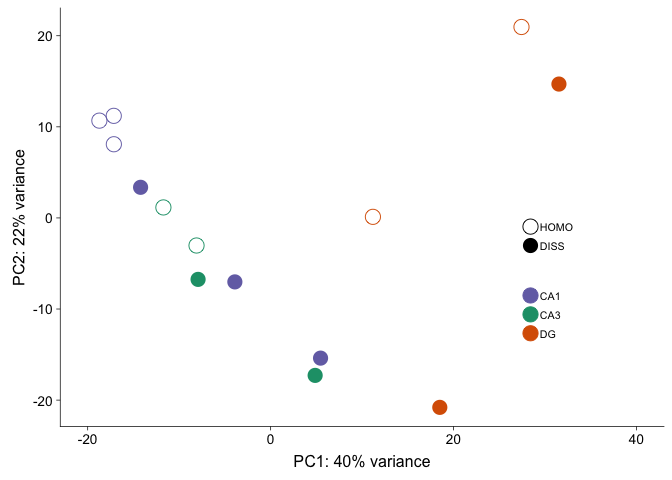
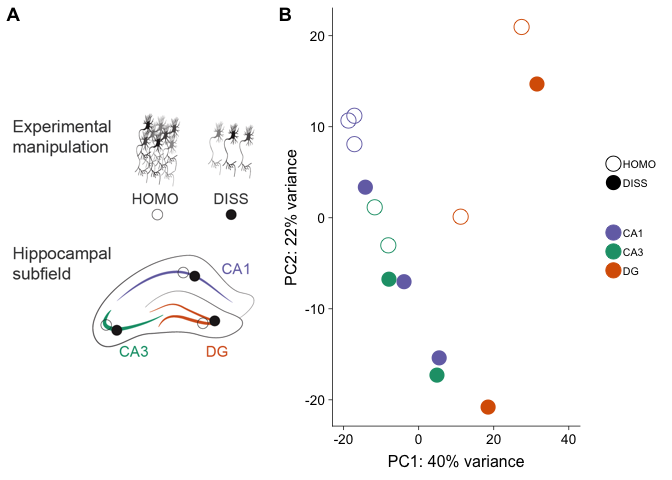
rerun 01_DissociationTest.Rmd

diff --git a/scripts/01_DissociationTest.md b/scripts/01_DissociationTest.md
@@ -3,10 +3,11 @@
 The sample and count information for this part is found in
 `../data/GSE99765_DissociationColData.csv` and
 `../data/GSE99765_DissociationCountData.csv`. You can also download
-these two files (with a different name but same content) from [GEO
+these two files from [GEO
 GSE99765](https://www.ncbi.nlm.nih.gov/geo/query/acc.cgi?acc=GSE99765).
 
-Sample sizes
+Do a little data cleaning and calculate sample size and number of genes
+measured.
 
     ##       
     ##        CA1 CA3 DG
@@ -49,11 +50,8 @@ number of genes for analysis of differntial expression.
     ## 0610009B22Rik 6.528940 5.152565
     ## 0610009L18Rik 6.528940 5.867002
 
-We identified 162 genes that were differentially expressed between the
-control and dissociated samples, 331 genes that were differentially
-expressed genes (DEGs) between any of the three hippocampus subfields,
-and 30 genes were shared between both sets of differentially expressed
-genes at FDR p-value &lt; 0.05 (Fig 1B).
+We identified 344 genes that were differentially expressed between the
+homogenized and dissociated samples at FDR p-value &lt; 0.1 (Fig 1B).
 
     ## [1] 484
 
@@ -72,8 +70,13 @@ subfield (Fig. 1C).
 
     ## [1] 67
 
-Volcano Plots: Figure 1 C
--------------------------
+Volcano Plots
+-------------
+
+Craete new data frames that include fold change, pvalue, and a column
+describing the direction for differential gene expression. This
+“direction” will be used to color code the dots on the volcano plot.
+Will also save a list of DEGs at the end.
 
     ## 
     ## out of 16709 with nonzero total read count
@@ -90,20 +93,6 @@ Volcano Plots: Figure 1 C
 
     ## [1] 2.058771
 
-    ## log2 fold change (MLE): Treatment DISS vs HOMO 
-    ## Wald test p-value: Treatment DISS vs HOMO 
-    ## DataFrame with 3 rows and 6 columns
-    ##                baseMean   log2FoldChange             lfcSE
-    ##               <numeric>        <numeric>         <numeric>
-    ## Trf      434.2199764615 2.72476331388246 0.413412216638661
-    ## Hexb   218.643899347355 2.34823092106826 0.365572531130074
-    ## Selplg 69.2575786624309 2.96944199007498 0.468249851856762
-    ##                    stat               pvalue                 padj
-    ##               <numeric>            <numeric>            <numeric>
-    ## Trf    6.59091145403671 4.37134551387366e-11 5.31424474121621e-07
-    ## Hexb   6.42343371316578 1.33234177125507e-10 8.09863945657394e-07
-    ## Selplg 6.34157593067072 2.27426618272289e-10 9.21608466112071e-07
-
     ##             gene           pvalue              lfc          
     ##  0610007P14Rik:    1   Min.   :0.000003   Min.   :-5.06587  
     ##  0610009B22Rik:    1   1st Qu.:0.026323   1st Qu.:-0.40829  
@@ -112,7 +101,7 @@ Volcano Plots: Figure 1 C
     ##  0610010F05Rik:    1   3rd Qu.:0.204839   3rd Qu.: 0.56869  
     ##  0610010K14Rik:    1   Max.   :6.274558   Max.   : 9.47422  
     ##  (Other)      :12151                                        
-    ##       padj            color      
+    ##       padj           direction   
     ##  Min.   :0.0000005   DISS:  138  
     ##  1st Qu.:0.6239665   HOMO:   11  
     ##  Median :0.8451229   none:12008  
@@ -121,13 +110,13 @@ Volcano Plots: Figure 1 C
     ##  Max.   :0.9999928               
     ## 
 
-    ##       gene   pvalue      lfc       padj color
-    ## 5    Asap3 1.304370 3.892399 0.04961699  DISS
-    ## 66   Itgam 1.304370 1.746838 0.04961699  DISS
-    ## 73    Lcp1 1.304370 2.733823 0.04961699  DISS
-    ## 37 Cyp27a1 1.308201 3.582689 0.04918113  DISS
-    ## 3    Arl4c 1.310489 1.794929 0.04892278  DISS
-    ## 39   Dhrs3 1.310489 2.947787 0.04892278  DISS
+    ##       gene   pvalue      lfc       padj direction
+    ## 5    Asap3 1.304370 3.892399 0.04961699      DISS
+    ## 66   Itgam 1.304370 1.746838 0.04961699      DISS
+    ## 73    Lcp1 1.304370 2.733823 0.04961699      DISS
+    ## 37 Cyp27a1 1.308201 3.582689 0.04918113      DISS
+    ## 3    Arl4c 1.310489 1.794929 0.04892278      DISS
+    ## 39   Dhrs3 1.310489 2.947787 0.04892278      DISS
 
     ## 
     ## out of 16709 with nonzero total read count
@@ -162,7 +151,7 @@ Volcano Plots: Figure 1 C
     ##  0610010F05Rik:    1   3rd Qu.: 0.052268   3rd Qu.: 0.2950  
     ##  0610010K14Rik:    1   Max.   :17.578566   Max.   : 8.4434  
     ##  (Other)      :12475                                        
-    ##       padj         color      
+    ##       padj        direction   
     ##  Min.   :0.0000   CA1 :  138  
     ##  1st Qu.:0.8866   DG  :  138  
     ##  Median :0.9829   none:12205  
@@ -214,16 +203,14 @@ punches. CA1 and CA3 samples have similar transcriptomes. The control
 CA1 samples have the most similar transcriptonal profiles as evidenced
 by their tight clustering.
 
-figure panels
--------------
+    ## [1] 40 22 14  5  4  3
 
-![](../figures/01_dissociationtest/cowplot1-1.png)
+![](../figures/01_dissociationtest/PCA-1.png)
 
     ## quartz_off_screen 
     ##                 2
 
-statistics
-----------
+PCA statistics
 
     ##             Df Sum Sq Mean Sq F value   Pr(>F)    
     ## Subfield     2 2812.7  1406.4   17.69 0.000365 ***
